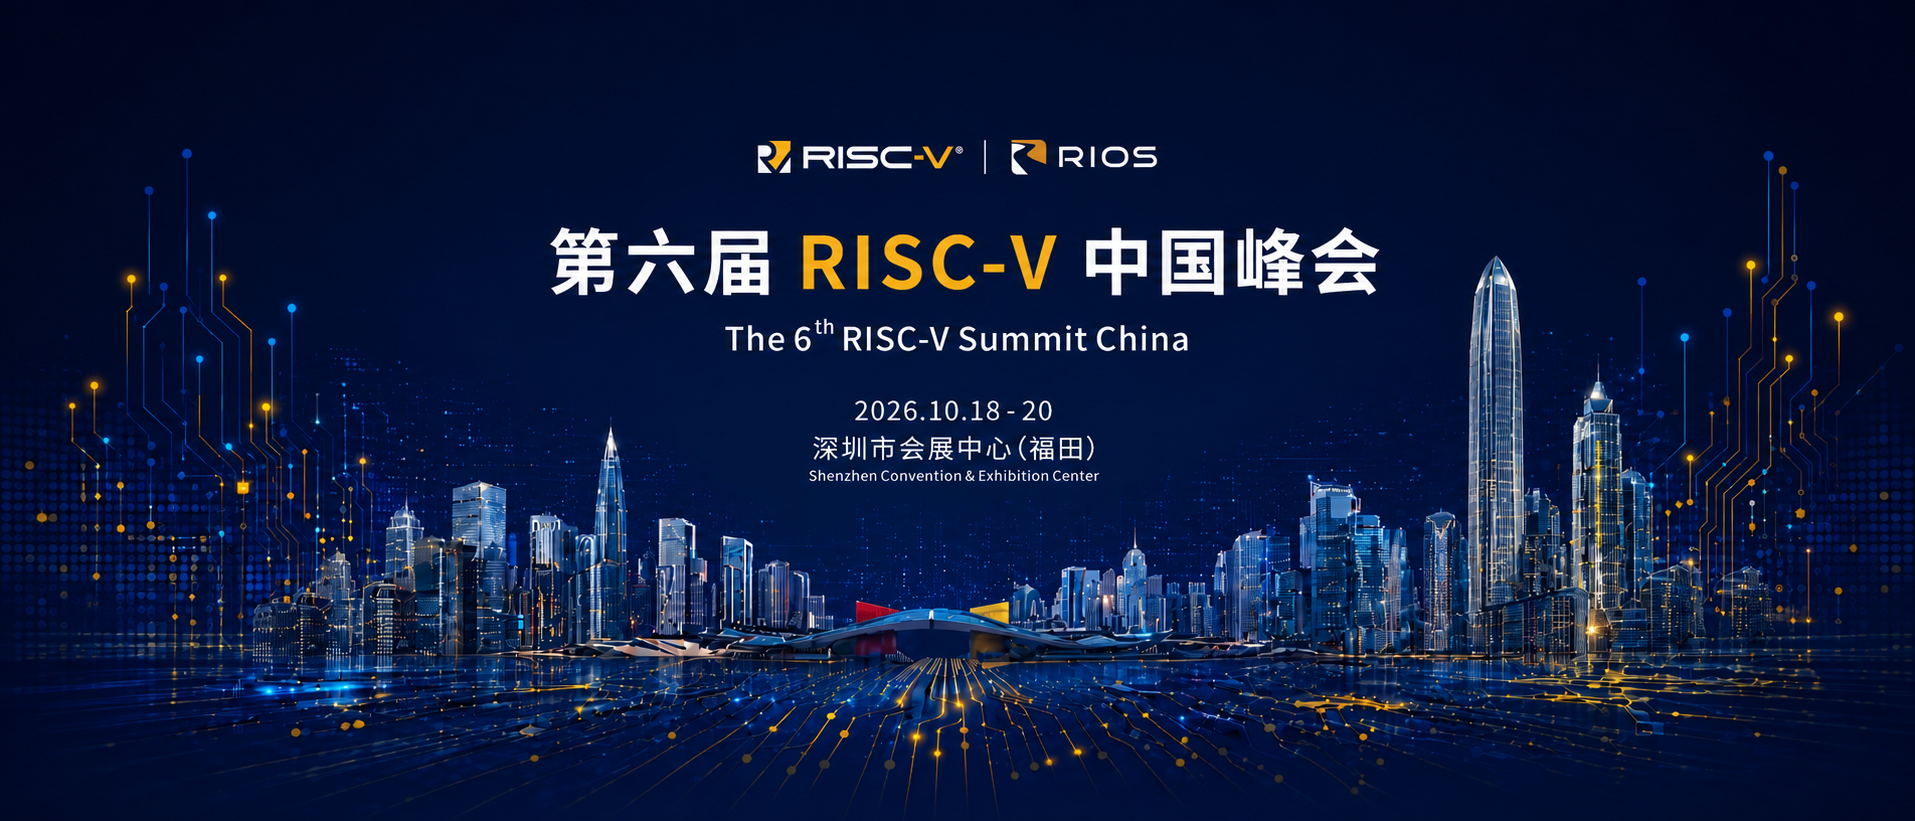
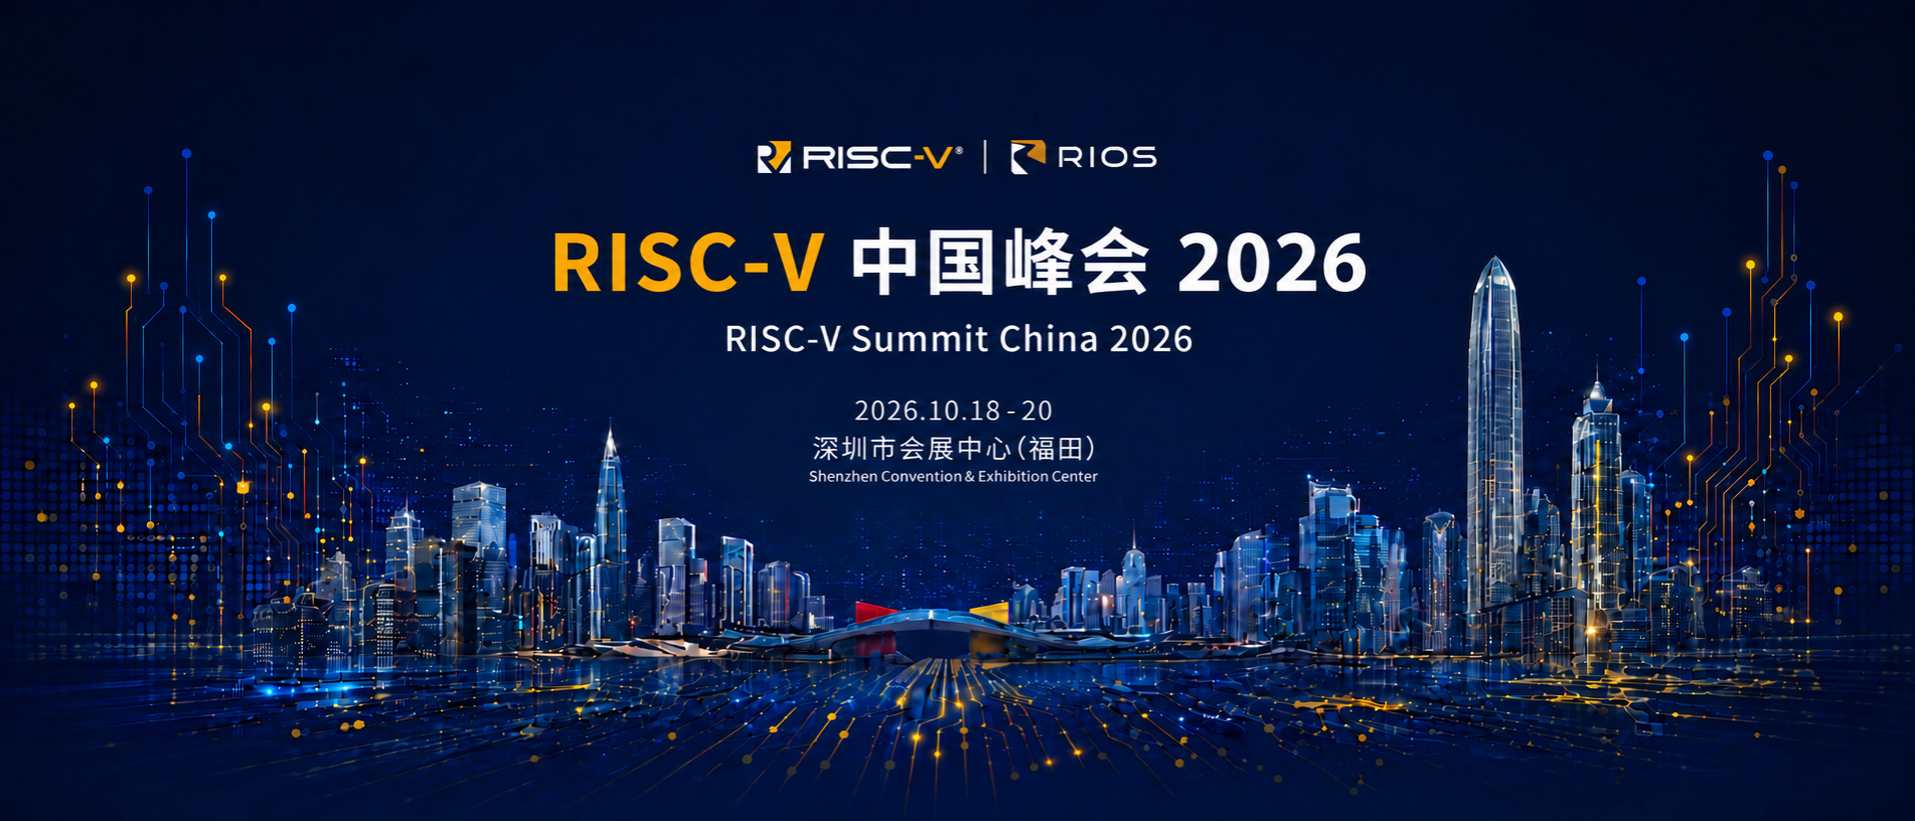
Fix ESWIN company name and update homepage summit branding

diff --git a/content/zh/agenda.md b/content/zh/agenda.md
@@ -30,7 +30,7 @@ section_nav:
     <tr><td class="agenda-date" rowspan="2">10 月 19 日<span>周一</span></td><td class="agenda-time">9:00–12:20</td><td><strong>第六届 RISC-V 中国峰会开幕式</strong><span>梅花厅 · 5F</span></td></tr>
     <tr><td class="agenda-time">13:30–17:40</td><td><strong>第六届 RISC-V 中国峰会主论坛</strong><span>梅花厅 · 5F</span></td></tr>
     <tr><td class="agenda-date" rowspan="7">10 月 20 日<span>周二</span></td><td class="agenda-time">9:00–17:45</td><td><strong>人工智能计算分论坛</strong><span>茉莉厅 · 6F</span><span class="agenda-co-chairs">联合主席：陈炜（希姆计算）；苏中（达摩院）</span></td></tr>
-    <tr><td class="agenda-time">9:00–17:45</td><td><strong>高性能计算分论坛</strong><span>水仙厅 · 6F</span><span class="agenda-co-chairs">联合主席：张泽松（香港城市大学）；何宁（奕思伟计算）</span></td></tr>
+    <tr><td class="agenda-time">9:00–17:45</td><td><strong>高性能计算分论坛</strong><span>水仙厅 · 6F</span><span class="agenda-co-chairs">联合主席：张泽松（香港城市大学）；何宁（奕斯伟计算）</span></td></tr>
     <tr><td class="agenda-time">9:00–17:45</td><td><strong>软件生态系统分论坛</strong><span>牡丹厅 · 6F</span><span class="agenda-co-chairs">联合主席：屈晟（中科院软件所）；李向明（RISCstar）</span></td></tr>
     <tr><td class="agenda-time">9:00–17:45</td><td><strong>嵌入式系统分论坛</strong><span>菊花厅 · 5F</span><span class="agenda-co-chairs">联合主席：胡振波（芯来科技）；张涛（海思）</span></td></tr>
     <tr><td class="agenda-time">9:00–17:45</td><td><strong>芯片设计与验证分论坛</strong><span>玫瑰厅1 · 5F</span><span class="agenda-co-chairs">联合主席：唐丹（开芯院）；苏泓萌（晶心科技）</span></td></tr>

diff --git a/content/zh/organizing-teams.md b/content/zh/organizing-teams.md
@@ -22,7 +22,7 @@ teams:
       - name: 苏中
         position: 达摩院
       - name: 何宁
-        position: 奕思伟计算
+        position: 奕斯伟计算
       - name: 李向明
         position: RISCstar
       - name: 郭松柳
